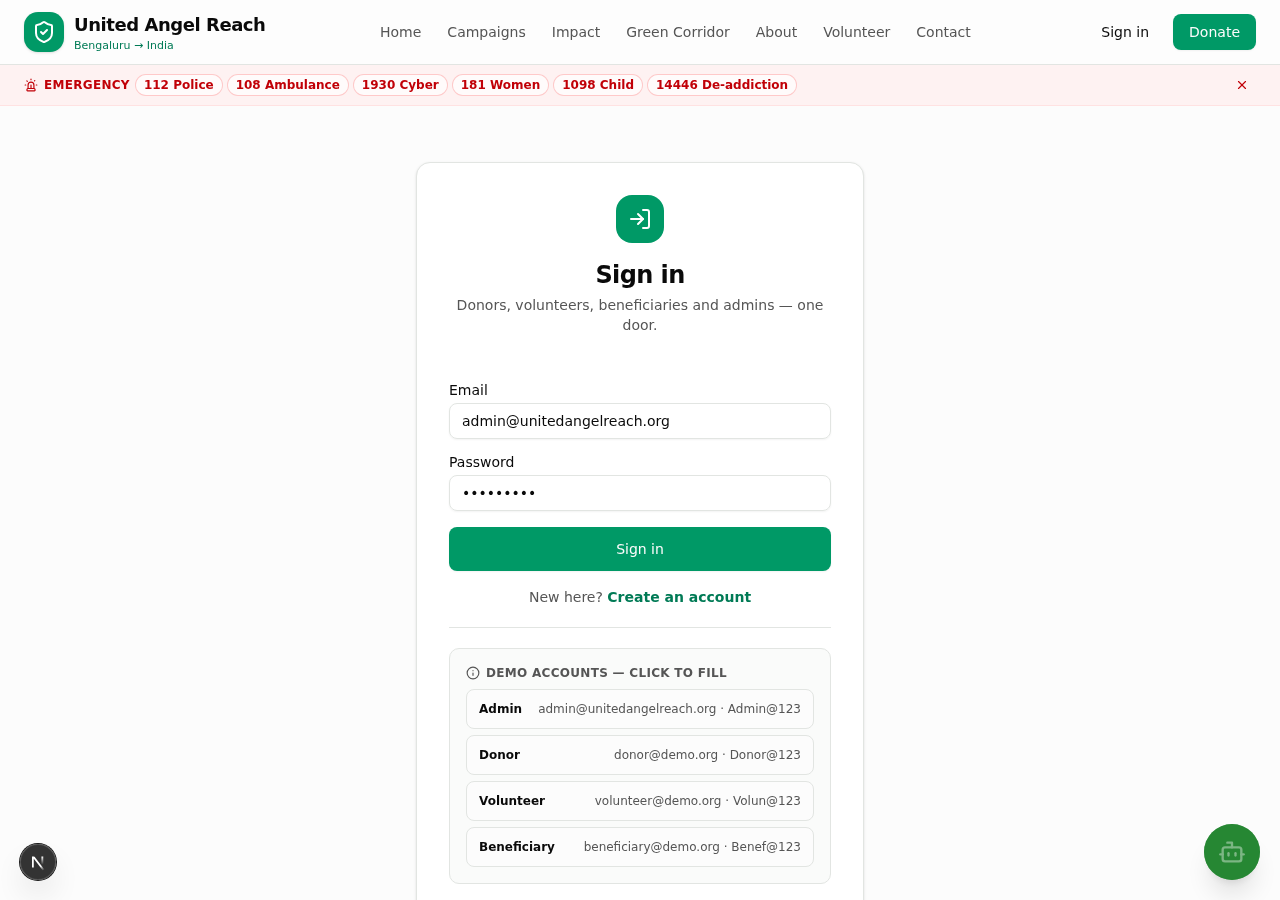
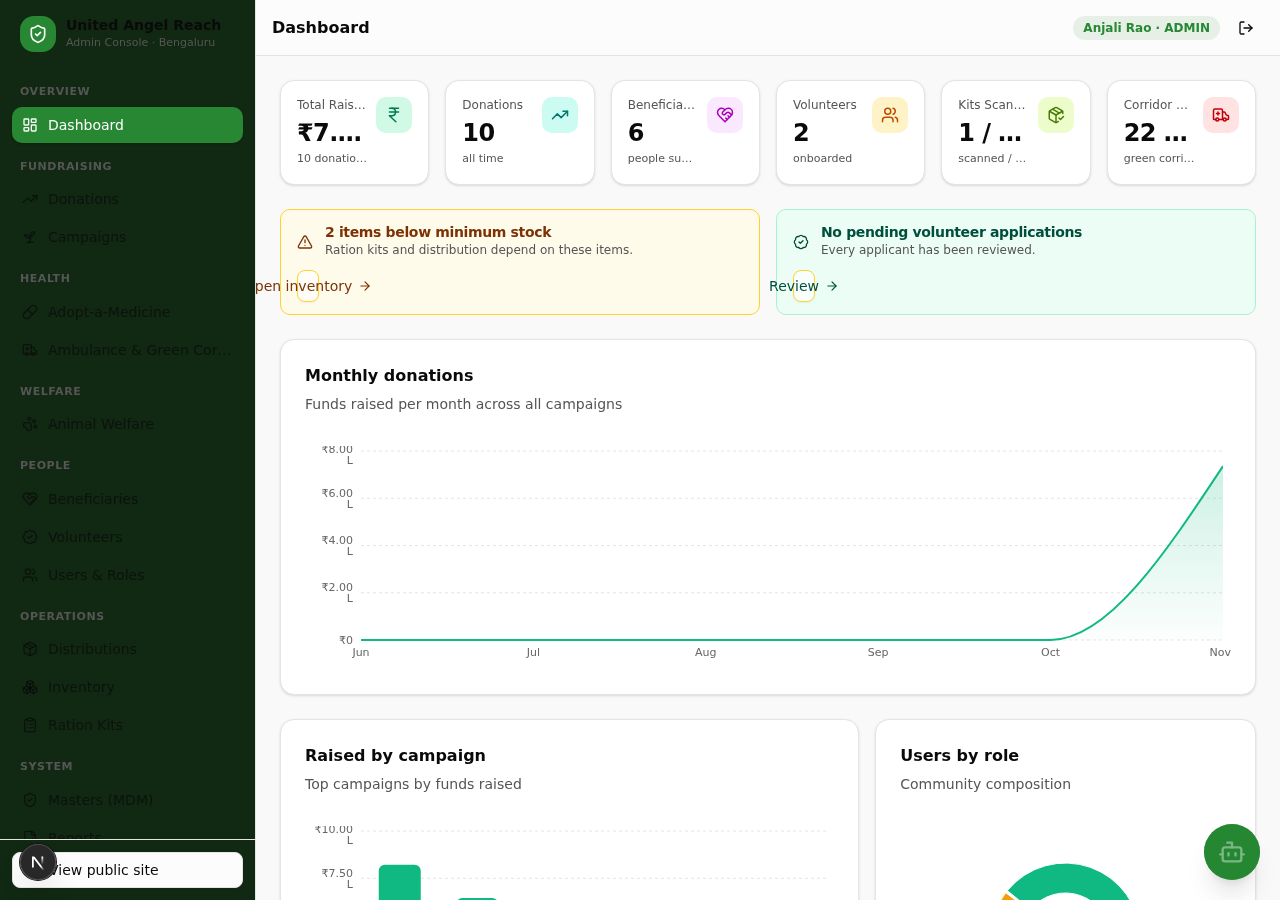
Full rebuild verified: 9 campaign pages + green corridor ops + adopt-a-medicine + animal welfare + kit scanner + portals + RAG agent — browser-verified end to end

diff --git a/src/components/portal/portal-router.tsx b/src/components/portal/portal-router.tsx
@@ -131,11 +131,14 @@ function VolunteerPortal({ user }: { user: SessionUser }) {
     };
   }, [user.status]);
 
+  // Only genuine volunteers go through the approval gate; donors/beneficiaries
+  // visiting /volunteer simply see the application form.
   const gated =
-    user.status === "PENDING" ||
-    !loaded ||
-    !volunteer ||
-    volunteer.status !== "ACTIVE";
+    user.role === "VOLUNTEER" &&
+    (user.status === "PENDING" ||
+      !loaded ||
+      !volunteer ||
+      volunteer.status !== "ACTIVE");
 
   const nav = gated ? VOLUNTEER_GATED_NAV : VOLUNTEER_ACTIVE_NAV;
   const requested = segments[1] ?? "";
